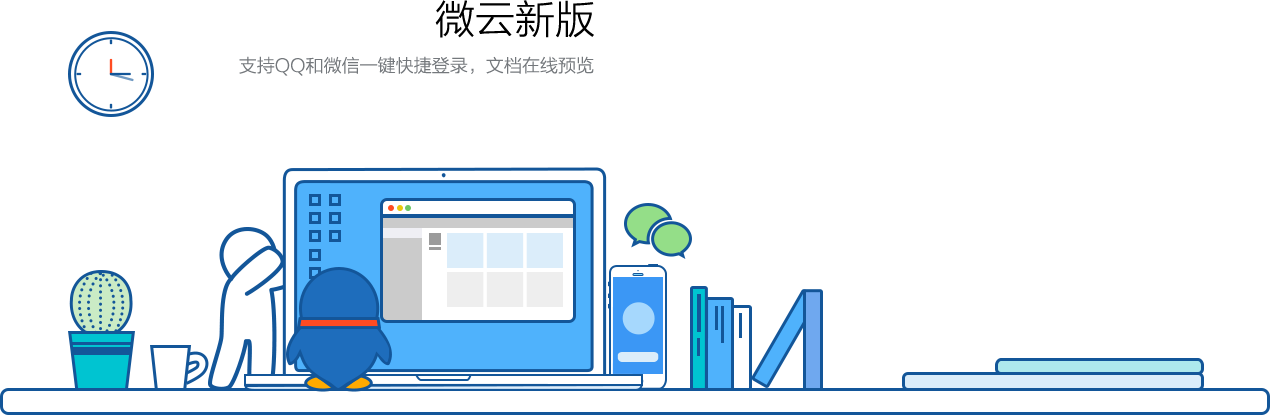
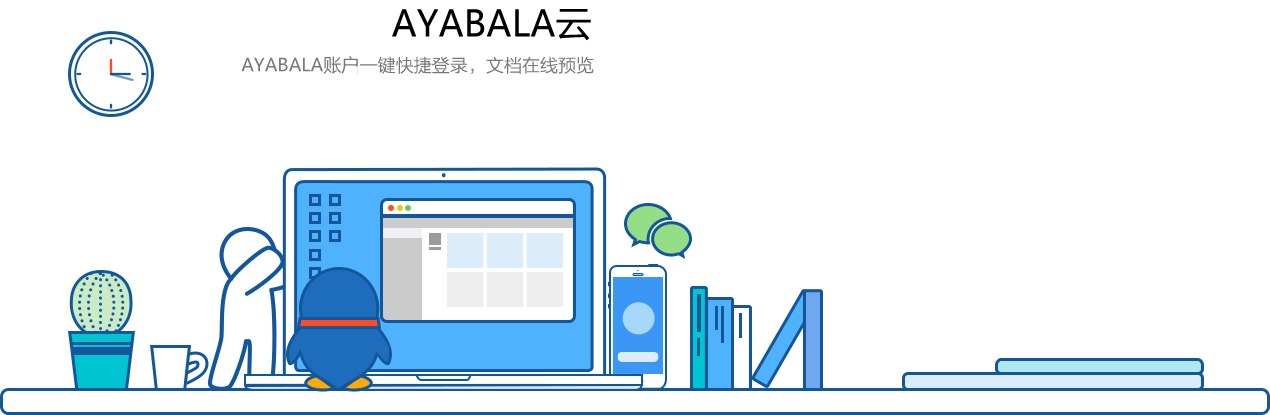
3

Changed region(s): [[0.3071, 0.0, 0.4913, 0.1157], [0.1843, 0.1157, 0.3071, 0.1735]]

diff --git a/views/index.html b/views/index.html
@@ -14,7 +14,7 @@
 {% block content %}
 <div class="g-header">
     <div class="m-wrap m-header-wrap">
-        <h1><a href="#"></a></h1>
+        <h1><a href="/">AYABALA云</a></h1>
         <ul class="g-nav">
             <li><a class="on" href="#">首页</a></li>
             <li><a href="#">下载</a></li>
@@ -155,7 +155,7 @@
         <div class="g-copyright">
             <p><a href="#" target="_blank">关于ayabala</a> | <a href="#" target="_blank">服务条款</a> | <a href="#" target="_blank">客服中心</a>
             <p>版权声明：您应尊重相关作品著作权人合法权益，未经著作权人合法授权，不能违法上传、存储、分享他人作品</p>
-            <p><a href="#" target="_blank">侵权投诉指引</a> |  举报或投诉：<a class="email" href="mailto:ningjie1993@ayabala.com">notice-b2@tencent.com</a></p>
+            <p><a href="#" target="_blank">侵权投诉指引</a> |  举报或投诉：<a class="email" href="mailto:ningjie1993@ayabala.com">ningjie1993@ayabala.com</a></p>
             <p>Copyright © 1998 - <span id="this_year">2016</span> AYABALA. All Rights Reserved. ayabala公司 版权所有</p>
         </div>
     </div>

diff --git a/public/index/js/main.js b/public/index/js/main.js
@@ -24,7 +24,7 @@ $(function(){
         timer = setInterval(function(){
             n++;
             n %= len;
-            banner.animate({left:-n*width},500,function(){
+            banner.animate({left:-n*width},400,function(){
                 if(n === len-1){
                     banner.css('left', 0);
                     n = 0;
